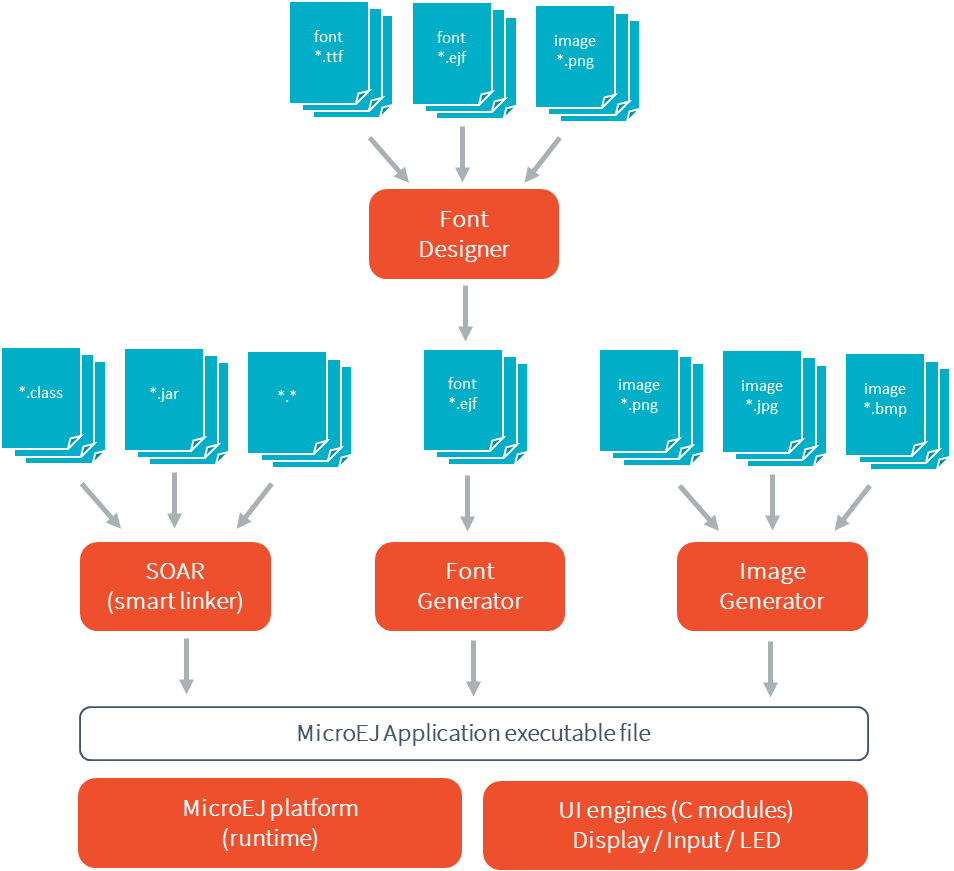
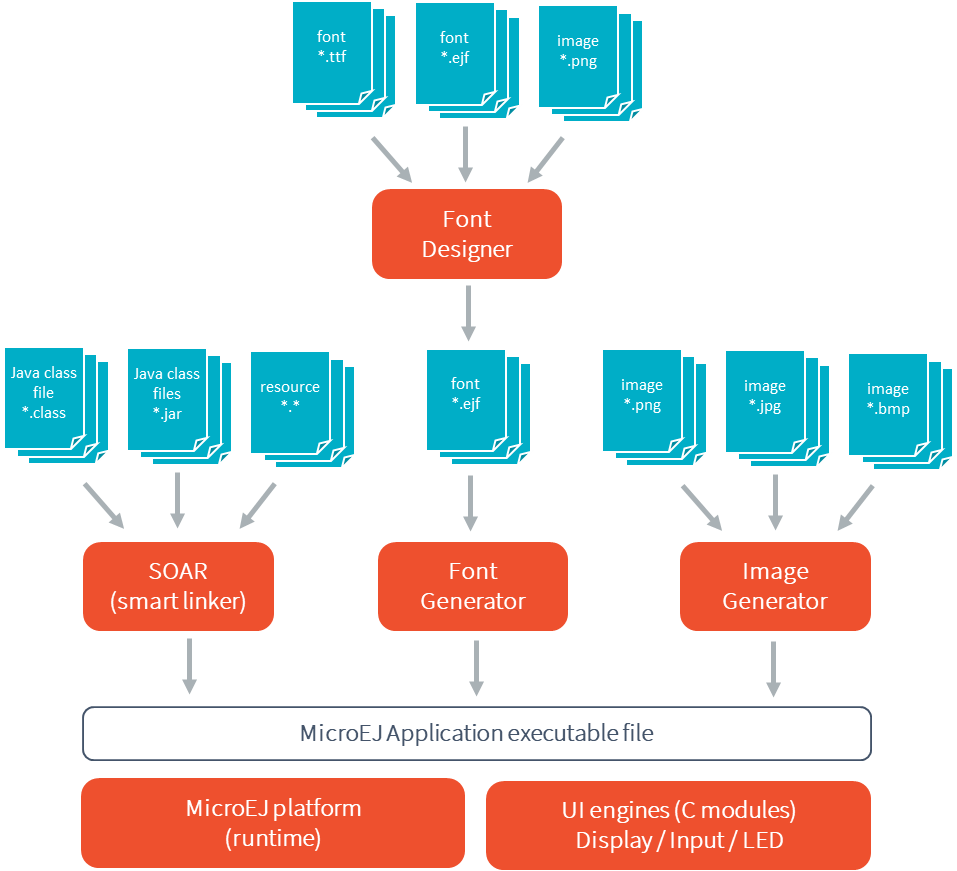
clarify overview

diff --git a/PlatformDeveloperGuide/uiIntroduction.rst b/PlatformDeveloperGuide/uiIntroduction.rst
@@ -20,7 +20,7 @@ The graphical engine manages fonts and images. The fonts and images are pre-proc
 
 .. figure:: images/ui_overview2.*
    :alt: The User Interface Extension Components along with a Platform
-   :width: 50.0%
+   :width: 70.0%
    :align: center
 
    The User Interface Extension Components along with a Platform
